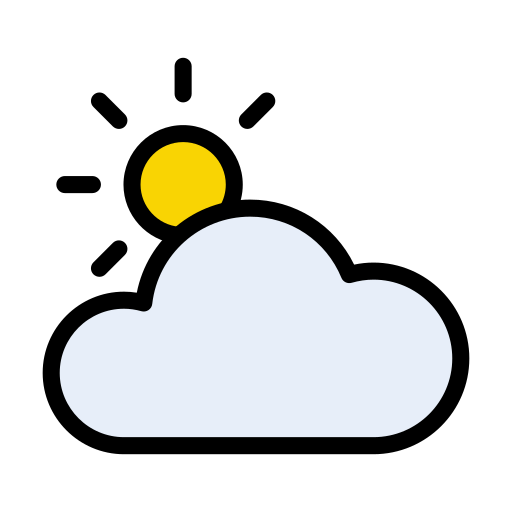
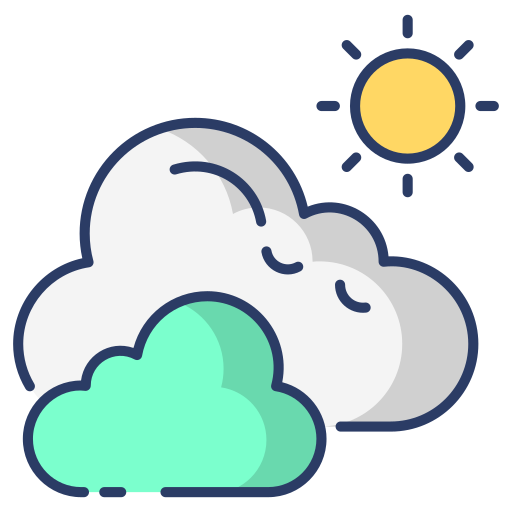
Weather update; get random locations; general UI updates

diff --git a/frontend/src/components/primaryWidgets/weather/Weather.tsx b/frontend/src/components/primaryWidgets/weather/Weather.tsx
@@ -4,7 +4,9 @@ import { WeatherList } from "./MicroWeather";
 import axios from "axios";
 import "./Weather.less";
 import { useState } from "react";
-import { WeatherReportStructure, getIcon } from "./helpers";
+import { WeatherReportStructure, getDescription, getIcon, weatherLocationSamples } from "./helpers";
+// @ts-ignore
+import randomLocation from "random-location";
 
 /**
  * Primary weather widget
@@ -13,50 +15,78 @@ import { WeatherReportStructure, getIcon } from "./helpers";
  */
 export const Weather = () => {
 
-    const locations = ["39.7456,-97.0892", "38.9064,-77.0359"];
     const [weatherReport, setWeatherReport] = useState<WeatherReportStructure[]>([]);
+    const [location, setLocation] = useState<string>("");
+    const [disableButton, setDisableButton] = useState(false);
 
-
-    const findWeather = () => {
-        // Choose a random location
-        // TODO: add more options / geolocation randomness
-        const rand = Math.floor(Math.random() * 2);
-
-        // First get the lat/lon coordinates, then the weather
-        axios.get("https://api.weather.gov/points/" + locations[rand])
-            .then(res_LatLon => {
-                if (res_LatLon.status != 200) {
-                    console.log("Error getting weather....");
-                    return;
-                }
-                axios.get(res_LatLon.data.properties.forecast)
-                    .then(res => {
-                if (res.status != 200) {
-                    console.log("Error getting weather....");
-                    return;
-                }
-
-                console.log(res);
-                // Only retrieve reports starting on each morning
-                // TODO: maybe add aggregation across the day?
-                setWeatherReport(res.data.properties.periods.filter((p:{startTime:string}) => p.startTime.split("T")[1].split("-")[0] == "06:00:00"));
-            })
-        })
+    const handleError = () => {
+        console.log("Error getting weather....");
+        setDisableButton(false);
+        // TODO: add something that happens just in case...
     }
 
-    // TODO: at the end, make the alt text relevant to the results
+    const findWeather = () => {
+        setDisableButton(true);
+
+        try {
+            const rand = Math.floor(Math.random() * weatherLocationSamples.length);
+
+            // TODO: condense these calls
+
+            // Choose a random location
+            const randomPoint = randomLocation.randomCirclePoint(weatherLocationSamples[rand], 30000);
+            // First get the lat/lon coordinates, then the weather
+            axios.get("https://api.weather.gov/points/" + randomPoint.latitude.toFixed(3) + "," + randomPoint.longitude.toFixed(3))
+                .then(res_LatLon => {
+                    if (res_LatLon.status != 200) {
+                        handleError();
+                        return;
+                    }
+    
+                    const latLoProp = res_LatLon.data.properties;
+    
+                    // Retrieve the weather info
+                    axios.get(latLoProp.forecast)
+                        .then(res => {
+                            if (res.status != 200) {
+                                handleError();
+                                return;
+                            }
+    
+                            // console.log(res);
+                            setLocation(latLoProp.relativeLocation.properties.city + ", " + latLoProp.relativeLocation.properties.state);
+                            // Only retrieve reports starting on each morning
+                            // TODO: maybe add aggregation across the day?
+                            setWeatherReport(res.data.properties.periods.filter((p:{startTime:string}) => p.startTime.split("T")[1].split("-")[0] == "06:00:00"));
+                            setDisableButton(false);
+                        })
+                        .catch(e => {
+                            handleError();
+                        })
+                })
+                .catch(e => {
+                    handleError();
+                })
+        } catch (e) {
+            handleError();
+        }
+    }
 
     return (
         <div className="weatherContainer">
             <PageSection>
                 <Column>
-                    <h1>Weather</h1>
-                    <button onClick={() => findWeather()}>Find some weather!</button>
+                    <h1 id="title">Weather</h1>
+                    <h3>Find some weather in one of the areas where I want to work!</h3>
+                    <button onClick={() => findWeather()} disabled={disableButton}>Find some weather!</button>
                     {weatherReport.length > 0 && (
-                        <div>
-                            <img alt="Image not available" src={getIcon(weatherReport[0]?.shortForecast)} />
-                            <p>{weatherReport[0]?.temperature}&deg;</p>
-                            <p>{weatherReport[0]?.shortForecast}</p>
+                        <div className="dynamicRow">
+                            <Column className="mainIcon">
+                                <h2>{location}</h2>
+                                <img alt="Image not available" src={getIcon(weatherReport[0]?.shortForecast)} />
+                                <h3>{weatherReport[0]?.temperature}&deg;</h3>
+                                <h3>{getDescription(weatherReport[0]?.shortForecast)}</h3>
+                            </Column>
                             <WeatherList 
                                 weatherReport={weatherReport}
                             />

diff --git a/frontend/src/components/primaryWidgets/weather/helpers.tsx b/frontend/src/components/primaryWidgets/weather/helpers.tsx
@@ -6,6 +6,7 @@ export type WeatherReportStructure = {
     temperature: number,
 }
 
+// TODO: Improve parsing - maybe with split commands?
 // Retrieve the corresponding image for a weather description
 export const getIcon = (descrip: string) => {
     if (descrip == "Sunny") return "sunny.png";
@@ -14,6 +15,35 @@ export const getIcon = (descrip: string) => {
     if (descrip == "Cloudy") return "cloudy.png";
     if (descrip.includes("Thunder")) return "thunderstorms.png";
     if (descrip.includes("Rain")) return "rainy.png";
+    if (descrip.includes("Fog")) return "foggy.png";
     // TODO: get a better template image
     else return "001.png";
 }
+
+// Retrieve a shorter description for the weather
+export const getDescription = (descrip: string) => {
+    if (descrip == "Sunny") return "Sunny";
+    if (descrip == "Mostly Sunny" || descrip == "Partly Sunny") return "Mostly Sunny";
+    if (descrip == "Mostly Cloudy" || descrip == "Partly Cloudy") return "Mostly Cloudy";
+    if (descrip == "Cloudy") return "Cloudy";
+    if (descrip.includes("Thunder")) return "Thunder";
+    if (descrip.includes("Rain")) return "Rainy";
+    if (descrip.includes("Fog")) return "Foggy";
+    else return descrip;
+}
+
+export const weatherLocationSamples = [
+    {latitude: 40.798, longitude: -74.484},
+    {latitude: 39.499, longitude: -75.004},
+    {latitude: 39.838, longitude: -74.452},
+    {latitude: 40.270, longitude: -74.332},
+    {latitude: 40.493, longitude: -74.840},
+    {latitude: 40.718, longitude: -74.409},
+    {latitude: 40.848, longitude: -74.809},
+    {latitude: 41.050, longitude: -74.397},
+    {latitude: 40.769, longitude: -73.991},
+    {latitude: 40.572, longitude: -75.465},
+    {latitude: 41.041, longitude: -75.117},
+    {latitude: 41.215, longitude: -74.695},
+    {latitude: 41.381, longitude: -73.675},
+]

diff --git a/frontend/src/components/primaryWidgets/weather/MicroWeather.tsx b/frontend/src/components/primaryWidgets/weather/MicroWeather.tsx
@@ -1,7 +1,7 @@
 import { Column } from "../../generic/Column";
 import { Row } from "../../generic/Row";
 import "./Weather.less";
-import { WeatherReportStructure, getIcon } from "./helpers";
+import { WeatherReportStructure, getDescription, getIcon } from "./helpers";
 
 /**
  * A list of weather report details over the course of the next few days.
@@ -9,8 +9,6 @@ import { WeatherReportStructure, getIcon } from "./helpers";
  *              weatherReport   - response from the weather API
  */
 export const WeatherList = (props: {weatherReport: WeatherReportStructure[]}) => {
-
-    // TODO: at the end, make the alt text relevant to the results
 
     return (
             <Row>
@@ -21,7 +19,7 @@ export const WeatherList = (props: {weatherReport: WeatherReportStructure[]}) =>
                             <p>{element.name}</p>
                             <img alt={`${element.name} image or data not available`} src={getIcon(element.shortForecast)} />
                             <p>{element.temperature}&deg;</p>
-                            <p>{element.shortForecast}</p>
+                            <p>{getDescription(element.shortForecast)}</p>
                         </Column>
                     );
                 })}

diff --git a/frontend/src/components/primaryWidgets/weather/Weather.less b/frontend/src/components/primaryWidgets/weather/Weather.less
@@ -1,13 +1,26 @@
 
 .weatherContainer {
-    color: pink;
     background-color: aquamarine;
+
+    #title {
+        color: pink;
+    }
+
+    img {
+        width: 250px;
+        height: 250px;
+    }
+
+    .dynamicRow {
+        display: flex;
+        flex-direction: row;
+        gap: 200px;
+    }
+
 }
 
 .microWeather {
     display: flex;
-    color: blue;
-    
 
     img {
         width: 50px;

diff --git a/frontend/src/components/generic/generic.less b/frontend/src/components/generic/generic.less
@@ -1,6 +1,5 @@
 
 .column {
-    width:fit-content;
     display: flex;
     flex-direction: column;
     gap: 8px;
@@ -14,8 +13,6 @@
     gap: 8px;
     justify-content: space-between;
     align-items: center;
-    color:purple;
-    background-color: orange;   
 }
 
 .section {

diff --git a/frontend/src/App.tsx b/frontend/src/App.tsx
@@ -8,8 +8,8 @@ function App() {
   return (
     <>
       <Column>
-          <p>Test</p>
-          <p>Test</p>
+          <p>Clayton Cunningham</p>
+          <p>Software Developer</p>
           <Row>
             <p>Test</p>
             <p>Test</p>

diff --git a/frontend/src/components/generic/Column.tsx b/frontend/src/components/generic/Column.tsx
@@ -5,7 +5,7 @@ export const Column = (props: any) => {
     const {children} = props;
 
     return (
-        <div className="column">
+        <div className={"column " + props.className}>
             {children}
         </div>
     )

diff --git a/frontend/src/components/generic/Row.tsx b/frontend/src/components/generic/Row.tsx
@@ -5,7 +5,7 @@ export const Row = (props: any) => {
     const {children} = props;
 
     return (
-        <div className="row">
+        <div className={"row " + props.className}>
             {children}
         </div>
     )

diff --git a/frontend/src/App.css b/frontend/src/App.css
@@ -3,5 +3,4 @@
   margin: 0 auto;
   padding: 2rem;
   text-align: center;
-  color: green;
 }
